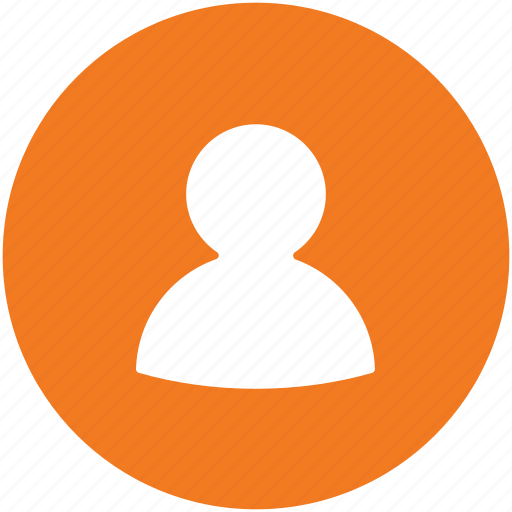
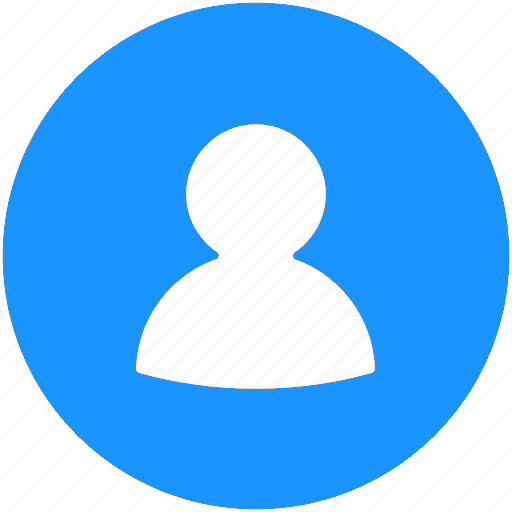
lock user ajax

diff --git a/admin/admin/wwwroot/js/lock.js b/admin/admin/wwwroot/js/lock.js
@@ -11,12 +11,12 @@ const createElement = (literal) => {
 const getChildrenLock = (newState) => {
   const newChildren = [];
 
-  if (newState === 'active') {
+  if (newState == 1) {
     const [svg] = createElement(`<svg xmlns="http://www.w3.org/2000/svg"  width="24"
                                height="24" viewBox="0 0 20 20" fill="currentColor">
       <path fill-rule="evenodd" d="M13.477 14.89A6 6 0 015.11 6.524l8.367 8.368zm1.414-1.414L6.524 5.11a6 6 0 018.367 8.367zM18 10a8 8 0 11-16 0 8 8 0 0116 0z" clip-rule="evenodd" />
     </svg>`);
-    const [span] = createElement(`<span>Lock user</span>`);
+    const [span] = createElement(`<span>Lock</span>`);
 
     newChildren.push(svg, span);
   }
@@ -25,7 +25,7 @@ const getChildrenLock = (newState) => {
                        class="h-6 w-6" fill="none" viewBox="0 0 24 24" stroke="currentColor">
                       <path stroke-linecap="round" stroke-linejoin="round" stroke-width="2" d="M8 11V7a4 4 0 118 0m-4 8v2m-6 4h12a2 2 0 002-2v-6a2 2 0 00-2-2H6a2 2 0 00-2 2v6a2 2 0 002 2z" />
                   </svg>`);
-    const [span] = createElement(`<span>Unlock user</span>`);
+    const [span] = createElement(`<span>Unlock</span>`);
 
     newChildren.push(svg, span);
   }
@@ -41,17 +41,17 @@ const handleLock = async (current, userId) => {
       method: 'PUT'
     }
   );
-  const data = await response.json();
-
-  if (data.msg === 'success') {
-    const elements = getChildrenLock(data.newState);
-    current.replaceChildren();
-    current.appendChild(elements[0]);
-    current.appendChild(...createElement(`<span> </span>`));
-    current.appendChild(elements[1]);
-
-    const stateCell = current.parentElement.parentElement.getElementsByClassName('user__state')[0];
-    stateCell.replaceChildren();
-    stateCell.appendChild(...createElement(`<h5>${capitalizeFirstLetter(data.newState)}</h5>`));
+    const data = await response.json();
+    console.log(data);
+    if (data.msg === 'successed') {
+        const elements = getChildrenLock(data.newState);
+        current.replaceChildren();
+        current.appendChild(elements[0]);
+        current.appendChild(...createElement(`<span> </span>`));
+        current.appendChild(elements[1]);
+        
+    //const stateCell = current.parentElement.parentElement.getElementsByClassName('user__state')[0];
+    //stateCell.replaceChildren();
+    //stateCell.appendChild(...createElement(`<h5>${capitalizeFirstLetter(data.newState)}</h5>`));
   }
 }

diff --git a/admin/admin/wwwroot/css/signIn_admin.css b/admin/admin/wwwroot/css/signIn_admin.css
@@ -56,7 +56,7 @@
     font-family: Poppins-Bold;
     font-size: 30px;
     color: #333333;
-/*    line-height: 1.2;*/
+    line-height: 1.2;
     text-align: center;
     width: 100%;
     display: block;
@@ -76,7 +76,7 @@
 .signin-admin .login__input {
     font-family: Poppins-Medium;
     font-size: 15px;
-/*    line-height: 1.5;*/
+    line-height: 1.5;
     color: #666666;
     display: block;
     width: 100%;
@@ -101,22 +101,19 @@
 .signin-admin .button-login {
     font-family: Montserrat-Bold;
     font-size: 15px;
-/*    line-height: 1.5;*/
+    line-height: 1.5;
     color: #fff;
     text-transform: uppercase;
     width: 100%;
     height: 50px;
     border-radius: 25px;
-    background: #f08632;
+    background: #1A94FF;
     display: flex;
     justify-content: center;
     align-items: center;
     padding: 0 25px;
     font-size: 20px;
     letter-spacing: 1px;
-    -webkit-transition: all 0.4s;
-    -o-transition: all 0.4s;
-    -moz-transition: all 0.4s;
     transition: all 0.4s;
 }
 

diff --git a/admin/admin/wwwroot/css/User/listUser.css b/admin/admin/wwwroot/css/User/listUser.css
@@ -1,6 +1,3 @@
-.main__top {
-  padding: 40px 330px;
-}
 
 .add-user {
   text-align: center;

diff --git a/admin/admin/Models/Account.cs b/admin/admin/Models/Account.cs
@@ -17,13 +17,23 @@ namespace admin.Models
         public string Role { get; set; }
         public int? IdState { get; set; }
         public int? IdPlace { get; set; }
-        public List<Account> getList(){
-            ShopContext context = new ShopContext();
+        public int? Lock { get; set; }
+
+        private static ShopContext context = new ShopContext();
+        public static List<Account> getList(){
+      
             var listStaff = context.Accounts
                                    .Where(s => s.Role == "staff").ToList();
 
             return listStaff;
         }
 
+        public static Account updateLock(int Id)
+        {
+            var account = context.Accounts.Find(Id);
+            account.Lock = account.Lock == 1 ? 0 : 1;
+            context.SaveChanges();
+            return account;            
+        }
     }
 }

diff --git a/admin/admin/Controllers/UserController.cs b/admin/admin/Controllers/UserController.cs
@@ -13,8 +13,7 @@ namespace admin.Controllers
         [Route("Users")]
         public IActionResult Retrieve()
         {
-            var context = new Account();
-            List<Account> list = context.getList();
+            List<Account> list = Account.getList();
             ViewData["listStaff"] = list;
             return View();
         }
@@ -55,9 +54,12 @@ namespace admin.Controllers
 
         [HttpPut]
         [Route("Users/{Id?}/lock")]
-        public IActionResult Lock(string a)
+        public IActionResult Lock(int Id)
         {
-            return View();
+            var account = Account.updateLock(Id);
+            if(account != null)
+                return Json(new { msg = "successed", newState = account.Lock});
+            return Json(new { msg = "failed" });
         }   
     }
 }

diff --git a/admin/admin/Models/ShopContext.cs b/admin/admin/Models/ShopContext.cs
@@ -60,6 +60,8 @@ namespace admin.Models
 
                 entity.Property(e => e.IdState).HasColumnName("id_state");
 
+                entity.Property(e => e.Lock).HasColumnName("lock");
+
                 entity.Property(e => e.IdentityCard)
                     .IsRequired()
                     .HasMaxLength(200)
